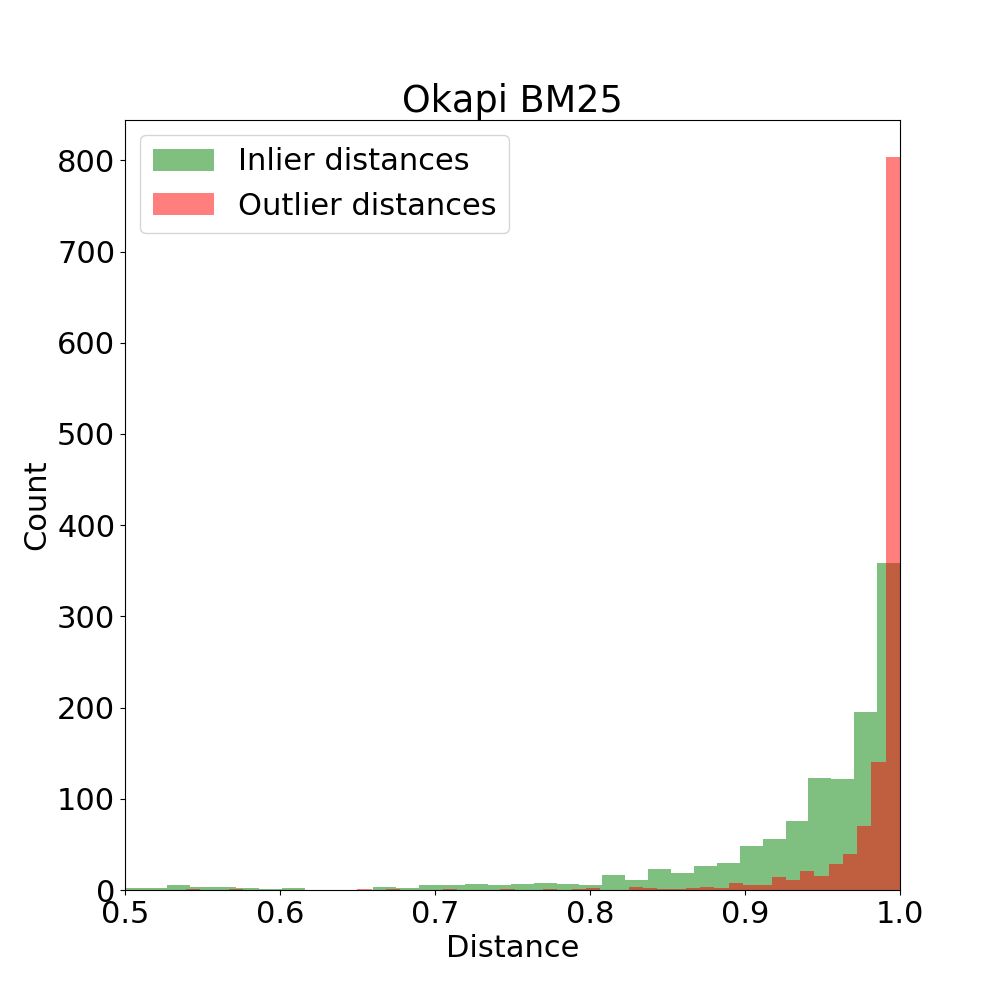
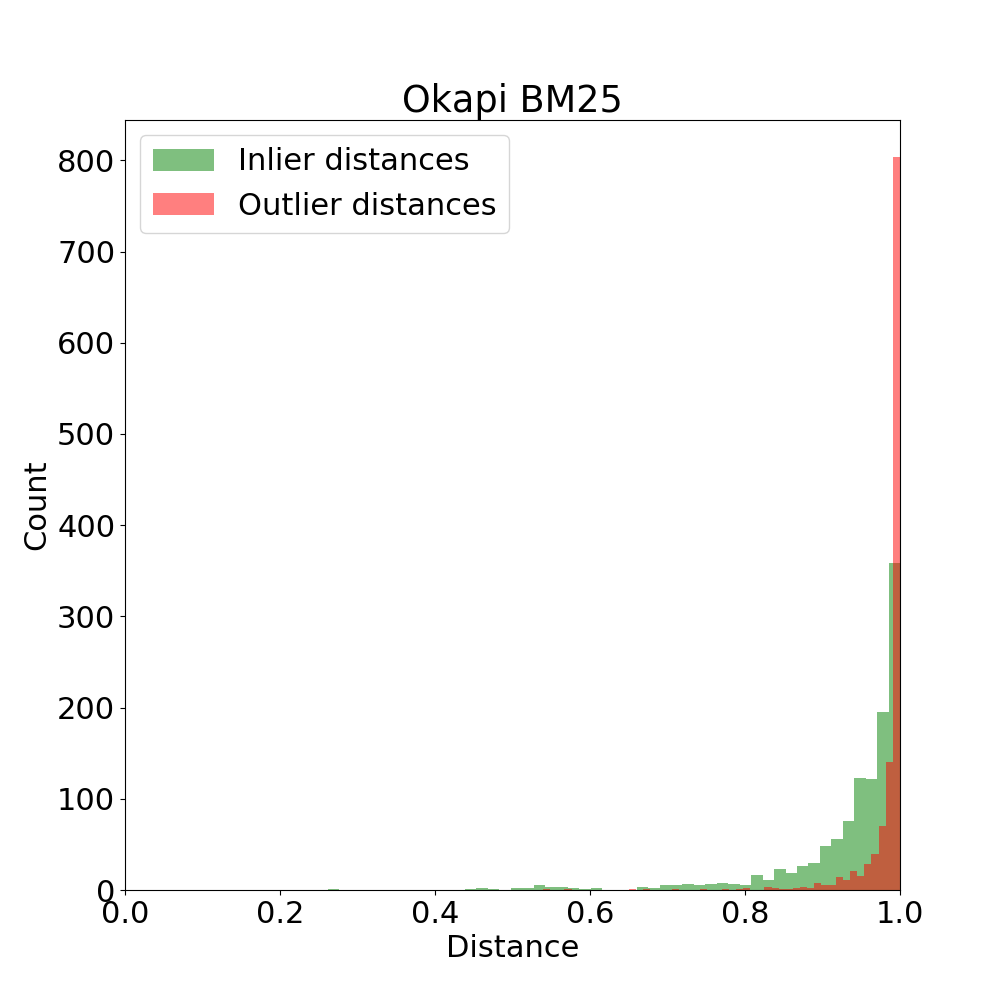
update okapi img

diff --git a/analyse_okapi.py b/analyse_okapi.py
@@ -30,7 +30,7 @@ plt.show()
 plt.title("Okapi BM25")
 plt.xlabel("Distance")
 plt.ylabel("Count")
-plt.xlim(0.5,1)
+plt.xlim(0,1)
 plt.hist(ana.get_inlier_dist(),bins=50,alpha=0.5,color='green',label='Inlier distances')
 plt.hist(ana.get_outlier_dist(),bins=50,alpha=0.5,color='red',label='Outlier distances')
 plt.legend(loc='upper left')
